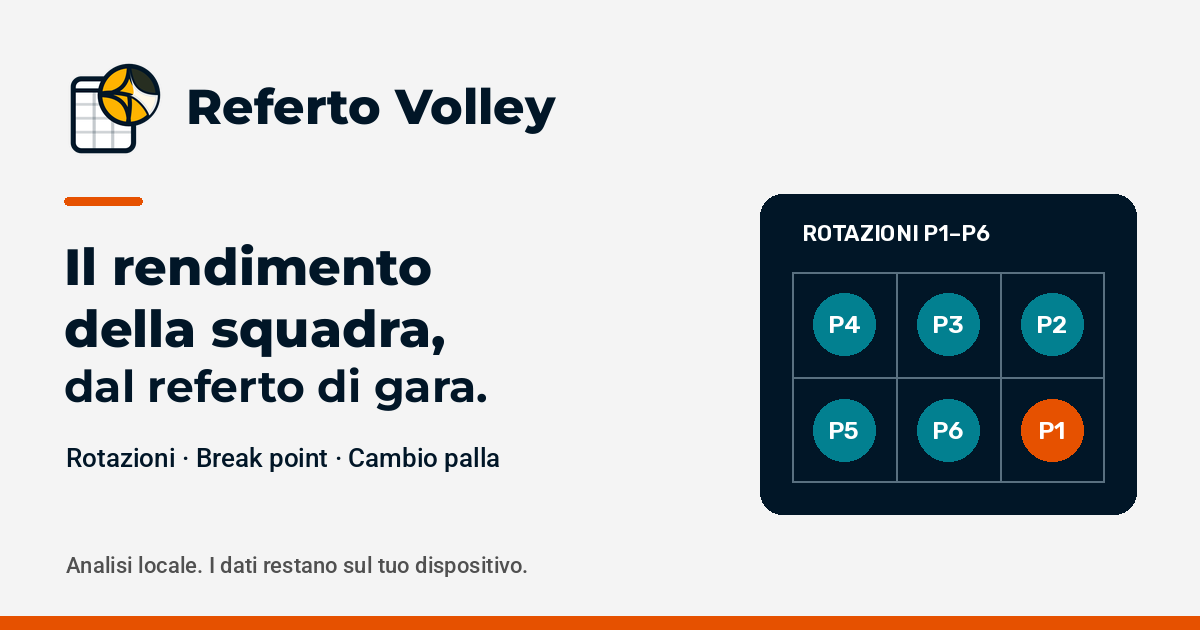
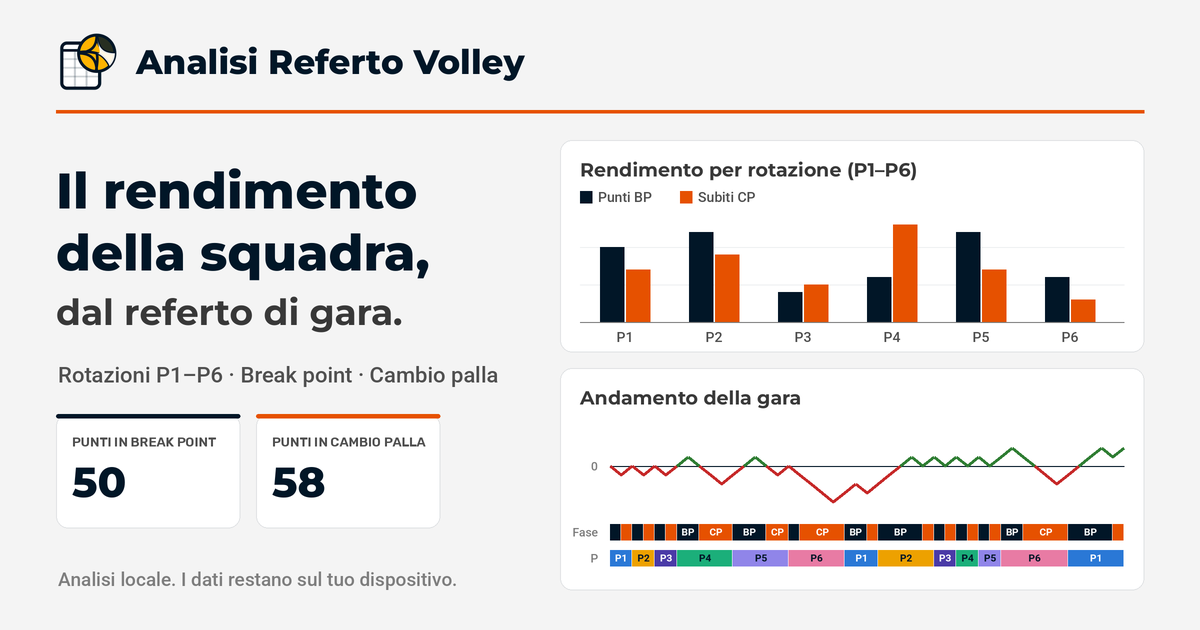
feat: redraw the social preview with the report's charts and colors
Mirror the report header, KPI cards, rotation bars (BP navy, CP orange)
and the match trend strip with the P1–P6 identity colors from theme.js.

diff --git a/scripts/social-preview.py b/scripts/social-preview.py
@@ -1,49 +1,139 @@
-"""Render the social card from the app's existing logo and bundled fonts.
+"""Render the social card from the app's logo, bundled fonts and report visual language.
+
+The card mirrors what the app produces: the report header (logo, title, orange rule), the
+"Rendimento per rotazione" bars (BP navy, CP orange) and the "Andamento della gara" strip
+(difference line, Fase BP/CP and P1–P6 identity colors). Colors come from webapp/src/theme.js.
 
 Requires Python Pillow; not needed by the app or normal builds.
 Run `npm run tauri -- icon webapp/public/favicon.svg` before regenerating.
 """
+import random
 from pathlib import Path
 from PIL import Image, ImageDraw, ImageFont
 
 root = Path(__file__).resolve().parents[1]
-image = Image.new('RGB', (1200, 630), '#F4F4F4')
+W, H, S = 1200, 630, 2  # drawn at 2x, then downscaled for smooth lines and curves
+image = Image.new('RGB', (W * S, H * S), '#F4F4F4')
 draw = ImageDraw.Draw(image)
-navy, orange, teal = '#011627', '#E65100', '#028090'
+
+# webapp/src/theme.js and index.css
+navy, orange = '#011627', '#E65100'
+heading, text_gray, muted = '#383838', '#505050', '#7D7D7D'
+border = '#E1E3E5'
+positive, negative = '#2E7D32', '#C62828'
+rotation = {
+    1: ('#2a78d6', '#FFFFFF'), 2: ('#eda100', navy), 3: ('#4a3aa7', '#FFFFFF'),
+    4: ('#1baf7a', navy), 5: ('#9085e9', navy), 6: ('#e87ba4', navy),
+}
+
+
+def s(*values):
+    return tuple(v * S for v in values)
+
 
 def font(family, size, weight):
-    face = ImageFont.truetype(str(root / f'webapp/public/fonts/{family}.ttf'), size)
+    face = ImageFont.truetype(str(root / f'webapp/public/fonts/{family}.ttf'), size * S)
     axes = face.get_variation_axes()
     face.set_variation_by_axes([weight if axis['name'] == b'Weight' else axis['default'] for axis in axes])
     return face
 
-def text(pos, value, size=25, color=navy, weight=500, family='roboto'):
-    draw.text(pos, value, font=font(family, size, weight), fill=color)
 
-# Existing brand mark, reused without redesign.
+def text(pos, value, size=25, color=navy, weight=500, family='roboto', anchor='la'):
+    draw.text(s(*pos), value, font=font(family, size, weight), fill=color, anchor=anchor)
+
+
+def card(box, accent=None):
+    draw.rounded_rectangle(s(*box), radius=12 * S, fill='white', outline=border, width=S)
+    if accent:
+        x0, y0, x1, _ = box
+        draw.rounded_rectangle(s(x0, y0, x1, y0 + 4), radius=2 * S, fill=accent)
+
+
+# Report header: logo, title, orange rule.
 logo = Image.open(root / 'src-tauri/icons/icon.png').convert('RGBA')
-logo.thumbnail((102, 102), Image.Resampling.LANCZOS)
-image.paste(logo, (64, 58), logo)
-text((186, 76), 'Referto Volley', 49, weight=800, family='montserrat')
-draw.rounded_rectangle((64, 197, 142, 205), radius=4, fill=orange)
-text((64, 235), 'Il rendimento', 51, weight=800, family='montserrat')
-text((64, 297), 'della squadra,', 51, weight=800, family='montserrat')
-text((64, 359), 'dal referto di gara.', 44, weight=700, family='montserrat')
-text((66, 442), 'Rotazioni · Break point · Cambio palla', 26)
-text((66, 552), 'Analisi locale. I dati restano sul tuo dispositivo.', 22, color='#505050')
-# Schematic six-position court, not a statistical chart.
-draw.rounded_rectangle((760, 194, 1136, 514), radius=22, fill=navy)
-text((802, 220), 'ROTAZIONI P1–P6', 22, color='white', weight=600, family='rubik')
-draw.rectangle((792, 272, 1104, 482), outline='#597080', width=2)
-draw.line((792, 377, 1104, 377), fill='#597080', width=2)
-for x in (896, 1000):
-    draw.line((x, 272, x, 482), fill='#597080', width=2)
-for number, x, y in [(4,844,324),(3,948,324),(2,1052,324),(5,844,430),(6,948,430),(1,1052,430)]:
-    draw.ellipse((x-31,y-31,x+31,y+31), fill=orange if number==1 else teal)
-    label=f'P{number}'
-    face=font('rubik',24,600)
-    draw.text((x,y),label,font=face,fill='white',anchor='mm')
-draw.rectangle((0, 616, 1200, 630), fill=orange)
-output=root/'webapp/public/social-preview.png'
+logo.thumbnail(s(64, 64), Image.Resampling.LANCZOS)
+image.paste(logo, s(56, 30), logo)
+text((136, 62), 'Analisi Referto Volley', 34, weight=800, family='montserrat', anchor='lm')
+draw.rectangle(s(56, 110, 1144, 113), fill=orange)
+
+# Message.
+text((56, 160), 'Il rendimento', 50, weight=800, family='montserrat')
+text((56, 222), 'della squadra,', 50, weight=800, family='montserrat')
+text((56, 290), 'dal referto di gara.', 36, color=heading, weight=700, family='montserrat')
+text((58, 362), 'Rotazioni P1–P6 · Break point · Cambio palla', 22, color=text_gray)
+
+# KPI cards, as in the report's first page.
+for x, label, value, accent in [(56, 'PUNTI IN BREAK POINT', '50', navy),
+                                (256, 'PUNTI IN CAMBIO PALLA', '58', orange)]:
+    card((x, 414, x + 184, 528), accent)
+    text((x + 16, 434), label, 13, color=text_gray, weight=600, family='rubik')
+    text((x + 16, 456), value, 42, weight=800, family='montserrat')
+text((58, 568), 'Analisi locale. I dati restano sul tuo dispositivo.', 19, color=muted)
+
+# "Rendimento per rotazione (P1–P6)": BP won vs CP lost per rotation.
+card((560, 140, 1144, 352))
+text((580, 158), 'Rendimento per rotazione (P1–P6)', 19, color=heading, weight=700, family='montserrat')
+for x, label, color in [(580, 'Punti BP', navy), (680, 'Subiti CP', orange)]:
+    draw.rectangle(s(x, 191, x + 12, 203), fill=color)
+    text((x + 18, 197), label, 14, color=text_gray, anchor='lm')
+bp, cp = [10, 12, 4, 6, 12, 6], [7, 9, 5, 13, 7, 3]
+base, scale, step = 322, 7.5, 89
+for level in (5, 10):
+    draw.line(s(580, base - level * scale, 1124, base - level * scale), fill='#EEF0F2', width=S)
+for i in range(6):
+    x = 600 + i * step
+    draw.rectangle(s(x, base - bp[i] * scale, x + 24, base), fill=navy)
+    draw.rectangle(s(x + 26, base - cp[i] * scale, x + 50, base), fill=orange)
+    text((x + 25, base + 15), f'P{i + 1}', 14, color=text_gray, anchor='mm')
+draw.line(s(580, base, 1124, base), fill=muted, width=S)
+
+# "Andamento della gara": difference line over a simulated set, with Fase and P strips.
+card((560, 368, 1144, 590))
+text((580, 386), 'Andamento della gara', 19, color=heading, weight=700, family='montserrat')
+
+
+def simulate(seed):
+    rng = random.Random(seed)
+    serving, rot, diff, rallies = True, 1, 0, []
+    while len(rallies) < 46:
+        won = rng.random() < (0.45 if serving else 0.6)
+        rallies.append(('BP' if serving else 'CP', rot, diff))
+        diff += 1 if won else -1
+        if won and not serving:
+            rot = rot % 6 + 1
+        serving = won
+    return rallies + [rallies[-1][:2] + (diff,)]
+
+
+# First seed giving a balanced set: within ±5, both above and below parity, won at the end.
+rallies = next(r for r in map(simulate, range(1000))
+               if max(abs(d) for *_, d in r) <= 5 and min(d for *_, d in r) <= -3 and r[-1][2] >= 2)
+
+x0, x1, mid = 610, 1124, 466
+dx = (x1 - x0) / (len(rallies) - 1)
+text((598, mid), '0', 12, color=muted, anchor='rm')
+draw.line(s(x0, mid, x1, mid), fill=navy, width=S)
+for k in range(len(rallies) - 1):
+    a, b = rallies[k][2], rallies[k + 1][2]
+    color = positive if a + b > 0 or (a + b == 0 and b > 0) else negative
+    draw.line(s(x0 + k * dx, mid - a * 9, x0 + (k + 1) * dx, mid - b * 9), fill=color, width=3 * S)
+for row, y in [('Fase', 524), ('P', 550)]:
+    text((598, y + 8), row, 12, color=muted, anchor='rm')
+    k = 0
+    while k < len(rallies) - 1:
+        phase, rot_k, _ = rallies[k]
+        end = k
+        key = phase if row == 'Fase' else rot_k
+        while end + 1 < len(rallies) - 1 and (rallies[end + 1][0] if row == 'Fase' else rallies[end + 1][1]) == key:
+            end += 1
+        fill, ink = ((navy, 'white') if key == 'BP' else (orange, 'white')) if row == 'Fase' else rotation[key]
+        left, right = x0 + k * dx, x0 + (end + 1) * dx
+        draw.rectangle(s(left, y, right - 1, y + 16), fill=fill)
+        if right - left > 22:
+            text(((left + right) / 2, y + 8), key if row == 'Fase' else f'P{key}', 10, color=ink, weight=700, anchor='mm')
+        k = end + 1
+
+image = image.resize((W, H), Image.Resampling.LANCZOS)
+output = root / 'webapp/public/social-preview.png'
 image.save(output, optimize=True)
 print(output)
